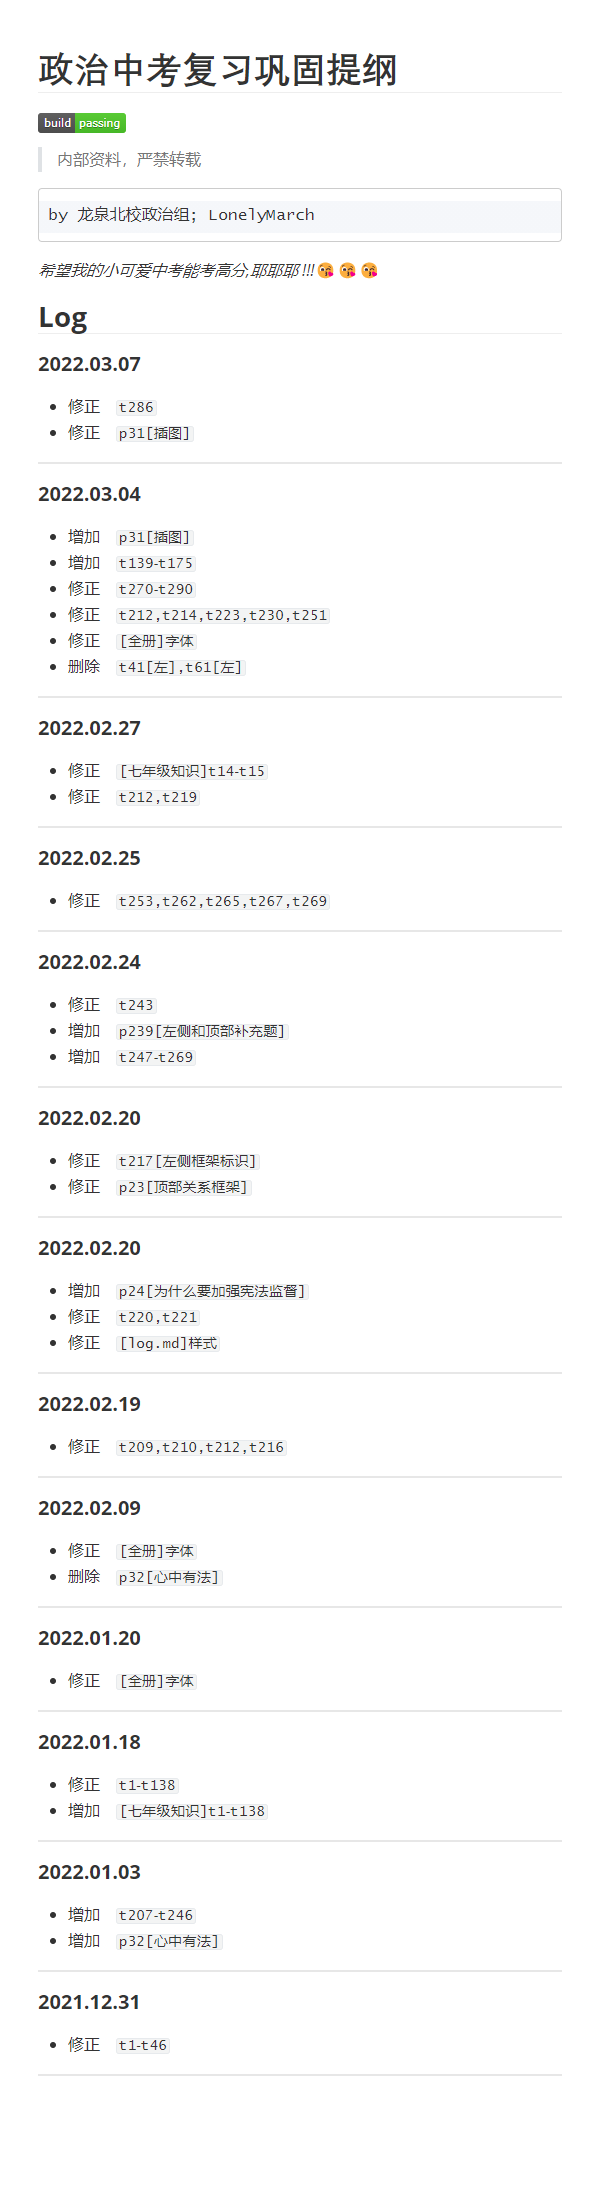
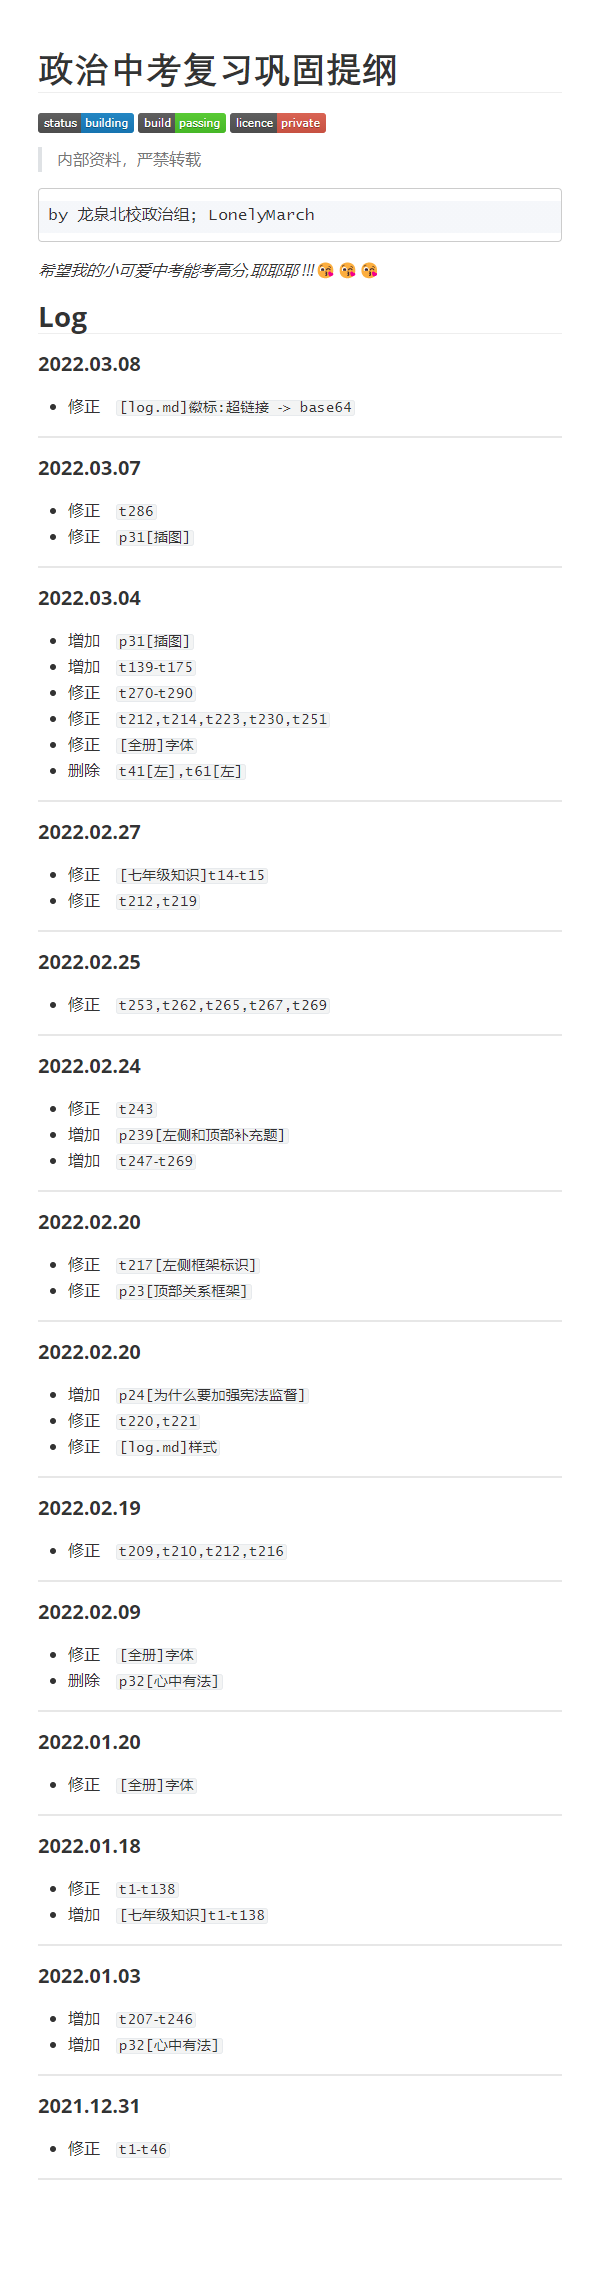
2022.03.08

diff --git a/README.md b/README.md
@@ -1,6 +1,6 @@
 # <font face="DengXian">政治中考复习巩固提纲</font> #
 
-[![Build](https://img.shields.io/badge/build-passing-brightgreen.svg)](https://github.com/LonelyMarch/Outline_Of_Politics-SHEE)
[1 lines of base64/hex data omitted]
 
 > <font face="Microsoft Yahei UI">内部资料，严禁转载</font>
 
@@ -9,6 +9,10 @@
 *希望我的小可爱中考能考高分,耶耶耶 !!!*:kissing_heart::kissing_heart::kissing_heart:
 
 ## Log ##
+
+#### 2022.03.08
++ 修正&emsp;`[log.md]徽标:超链接 -> base64`
+---
 
 #### 2022.03.07
 + 修正&emsp;`t286`
